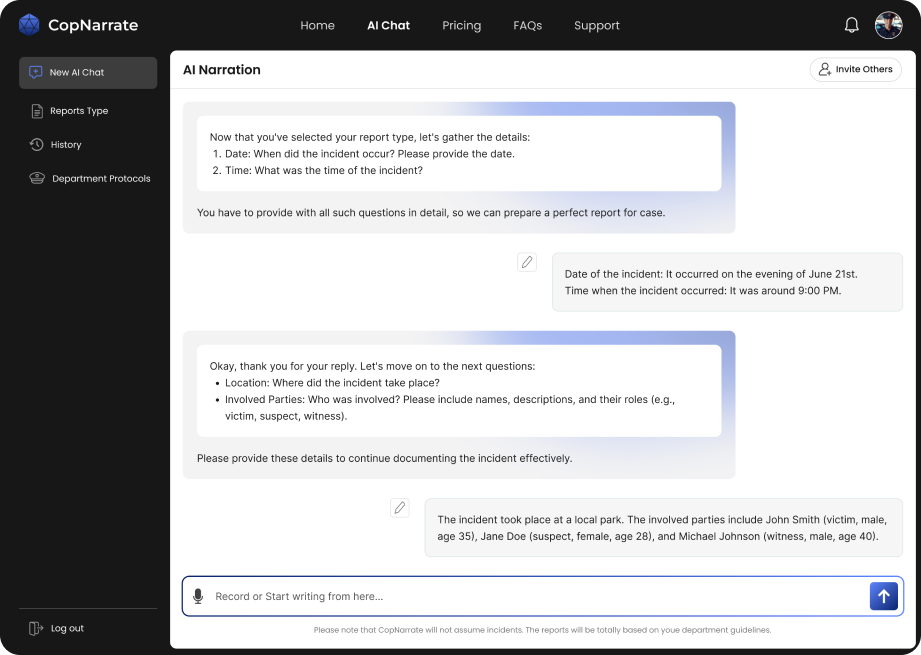
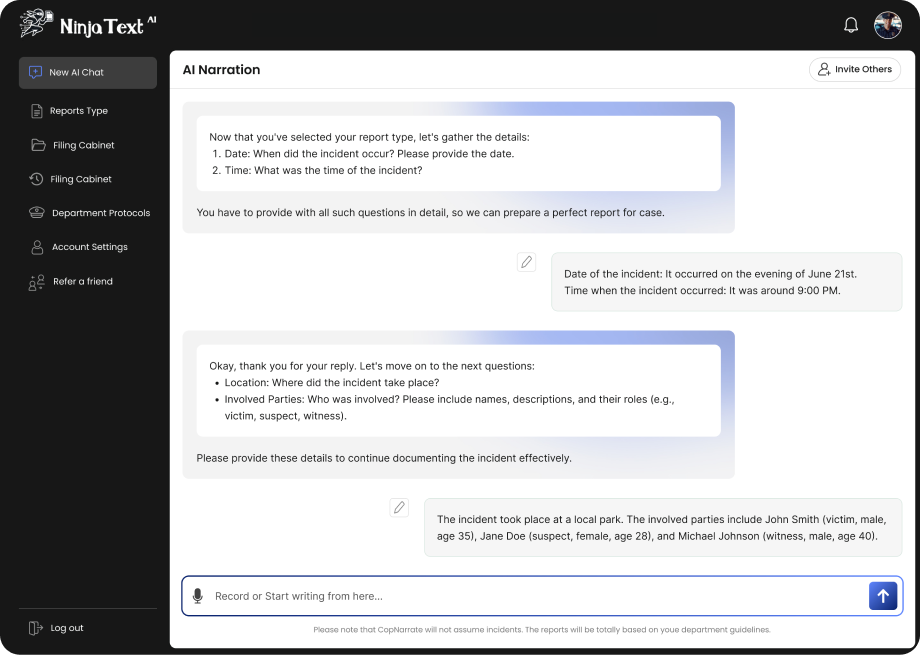
ladnig page is complete

diff --git a/components/landing-features.tsx b/components/landing-features.tsx
@@ -7,32 +7,32 @@ const LandingFeatures = () => {
       id="features"
       className="flex flex-col items-center justify-center px-4 sm:px-8 md:px-16 lg:px-32 text-black -mt-72 z-10 relative bg-white rounded-tl-3xl rounded-tr-3xl min-h-screen"
     >
-      <div className="flex flex-col gap-y-4 text-center mt-12">
-        <h5 className="text-gray-500 font-semibold text-lg md:text-xl">
+      <div className="flex flex-col items-center gap-y-4 text-center mt-12">
+        <h5 className="w-fit px-2 text-black font-normal bg-gray-200 rounded-xl">
           Features
         </h5>
-        <h2 className="text-black text-2xl sm:text-3xl md:text-4xl lg:text-5xl font-bold">
-          Dictate, Document, Deliver! <br />
-          Simplify Police Reporting with AI.
+        <h2 className="flex flex-col gap-y-2 text-black text-2xl sm:text-3xl md:text-4xl lg:text-5xl font-bold">
+          Dictate, Document, Deliver!
+          <span>Simplify Police Reporting with AI.</span>
         </h2>
       </div>
 
       <div className="flex flex-col md:flex-row w-full bg-[#EFF2FB] rounded-3xl p-4 mt-12 drop-shadow-lg">
         <div className="w-full md:w-1/2 p-4">
           <Image
-            src={"/pic1.jpg"}
-            width={230}
-            height={230}
+            src={"/pic1.png"}
+            width={260}
+            height={260}
             alt="pic1"
             className="rounded-tl-3xl rounded-tr-3xl mx-auto md:mx-0"
           />
         </div>
         <div className="w-full md:w-1/2 px-4 md:px-12 flex items-center">
-          <div className="w-full flex flex-col items-center justify-center gap-y-2">
-            <h1 className="text-lg sm:text-xl md:text-2xl font-bold text-center">
-              Accurate reporting as per your department guidelines.
+          <div className="w-full flex flex-col items-start justify-center gap-y-2">
+            <h1 className="text-lg sm:text-xl md:text-2xl font-bold text-left">
+              Accurate Reporting As Per Your Department Guidelines.
             </h1>
-            <p className="text-gray-500 font-light text-center">
+            <p className="text-gray-500 font-light text-left">
               Our platform ensures precise documentation aligned with your
               department's protocols and guidelines.
             </p>
@@ -43,10 +43,10 @@ const LandingFeatures = () => {
       <div className="flex flex-col md:flex-row w-full bg-[#EFF2FB] rounded-3xl p-4 mt-12 drop-shadow-lg">
         <div className="w-full md:w-1/2 px-4 md:px-12 flex items-center">
           <div className="w-full flex flex-col items-center justify-center gap-y-2">
-            <h1 className="text-lg sm:text-xl md:text-2xl font-bold text-center">
-              Voice-Powered Efficiency Streamline Your Narrations
+            <h1 className="text-lg sm:text-xl md:text-2xl font-bold text-left">
+            Efficient Narration at Your Command: Powered by Voice
             </h1>
-            <p className="text-gray-500 font-light text-center">
+            <p className="text-gray-500 font-light text-left">
               Experience the future of documentation with our advanced
               voice-powered platform.
             </p>
@@ -75,13 +75,13 @@ const LandingFeatures = () => {
         </div>
         <div className="w-full md:w-1/2 px-4 md:px-12 flex items-center">
           <div className="w-full flex flex-col justify-center gap-y-2">
-            <h1 className="text-lg sm:text-xl md:text-2xl font-bold text-center">
-              Copy, Regenerate, and Export with Ease
+            <h1 className="text-lg sm:text-xl md:text-2xl font-bold text-left">
+              Copy, Regenerate, And Export <br /> With Ease
             </h1>
-            <p className="text-gray-500 font-light text-center">
+            <p className="text-gray-500 font-light text-left">
               Effortlessly manage reports with our comprehensive tools:
               duplicate for editing or reference, update content with AI
-              precision, and export seamlessly in DOCX and PDF formats for easy
+              precision, and export seamlessly in PDF formats for easy
               sharing and archival.
             </p>
           </div>

diff --git a/components/landing-pricing.tsx b/components/landing-pricing.tsx
@@ -16,13 +16,15 @@ const LandingPricing = () => {
   return (
     <div id="pricing" className="bg-white py-8">
       <div className="px-4 sm:px-8 md:px-16 lg:px-32">
-        <div className="flex flex-col bg-[#EFF2FB] p-6 md:p-8 lg:p-12 rounded-3xl items-center justify-center text-center gap-y-8 drop-shadow-lg">
-          <p className="text-gray-500 font-semibold text-sm md:text-base mt-4">
+        <div className="flex flex-col bg-[#EFF2FB] p-6 md:p-8 lg:p-12 rounded-3xl items-center justify-center text-center gap-y-4 drop-shadow-lg">
+          <h5 className="w-fit px-4 text-black font-normal bg-white rounded-xl shadow-lg">
             Plans and Pricing
-          </p>
-          <h1 className="text-xl sm:text-2xl md:text-3xl lg:text-4xl font-bold text-black px-4 md:px-12 lg:px-48">
-            Choose your plan: flexible upgrades, downgrades, and easy
-            cancellations.
+          </h5>
+          <h1 className="text-xl sm:text- md:text-3xl lg:text-4xl font-bold text-black px-4 md:px-12 lg:px-22">
+            Choose Your Plan
+          </h1>
+          <h1 className="text-xs sm:text-sm md:text-md lg:text-lg font-bold text-black px-4 md:px-12 lg:px-22">
+            Flexible, Upgrades, Downgrades, and Easy Cancellations.
           </h1>
 
           <div className="flex flex-col md:flex-row gap-6 md:gap-8 lg:gap-12 mb-12">
@@ -30,8 +32,10 @@ const LandingPricing = () => {
               <Card
                 key={index}
                 className={cn(
-                  plan.tag === "Free" ? "bg-white text-black" : "bg-black text-white",
-                  "text-left drop-shadow-xl px-4 py-6 md:px-6 md:py-8 lg:px-8 lg:py-10 h-fit rounded-3xl"
+                  plan.tag === "Free"
+                    ? "bg-white text-black"
+                    : "bg-black text-white",
+                  "text-left shadow-black/20 shadow-xl px-4 py-4 md:px-6 md:py-8 lg:px-6 lg:py-6 h-fit rounded-3xl"
                 )}
               >
                 <CardHeader>
@@ -67,15 +71,19 @@ const LandingPricing = () => {
                     </p>
                   ))}
                 </CardContent>
-                <CardFooter>
+                <CardFooter className="flex items-center justify-center">
                   <Link href={"/sign-up"}>
                     <Button
                       className={cn(
-                        plan.tag === "Free" ? "bg-gray-300 text-black" : "bg-sky-600",
+                        plan.tag === "Free"
+                          ? "bg-gray-300 text-black"
+                          : "bg-sky-600",
                         "drop-shadow-md"
                       )}
                     >
-                      {plan.tag === "Organization" ? "Book a Demo" : "Buy Now"}
+                      {plan.tag === "Free" && "Start for Free"}
+                      {plan.tag === "Organization" && "Book a Demo"}
+                      {plan.tag === "Premium" && "Try it now"}
                     </Button>
                   </Link>
                 </CardFooter>

diff --git a/constants/landingpage.ts b/constants/landingpage.ts
@@ -4,30 +4,30 @@ export const plans = [
     price: "0.00 $",
     line: "Per user",
     description: [
-      "AI -Powered Chatbot",
-      "Upto 07 Reports Narration",
-      "No file saving, Copy only",
+      "No Credit Required",
+      "Up to 3 Report Narrations",
+      "Copy Report only",
     ],
   },
   {
     tag: "Premium",
     price: "39.99 $",
-    line: "Per user, one month",
+    line: "Per user, per month",
     description: [
-      "AI -Powered Chatbot",
-      "Unlimited Reports Narration",
-      "File saving and copying",
+      "AI-Powered Chatbot",
+      "Unlimited Report Narrations",
+      "File Saving & Copying",
     ],
   },
   {
-    tag: "Oraginzation",
+    tag: "Organization",
     price: "Contact Us",
-    line: "",
+    line: "For Organization",
     description: [
-      "Department protocol enhanced",
-      "User based pricing",
-      "Unlimited reports",
-      "History access",
+      "Department Protocol Enhanced",
+      // "Unlimited Report Narrations",
+      "History Access",
+      "Priority Support"
     ],
   },
 ];
@@ -69,10 +69,10 @@ export const faqs = [
     question: "Is Ninja Text AI suitable for small departments?",
     answer: "Yes, Ninja Text AI is scalable and can be used effectively by both small and large departments. It is designed to enhance productivity regardless of department size.",
   },
-  {
-    question: "How can we provide feedback or request new features?",
-    answer: "We value your feedback and are committed to continuously improving Ninja Text AI. You can provide feedback directly through the platform or contact our support team with your suggestions or feature requests.",
-  },
+  // {
+  //   question: "How can we provide feedback or request new features?",
+  //   answer: "We value your feedback and are committed to continuously improving Ninja Text AI. You can provide feedback directly through the platform or contact our support team with your suggestions or feature requests.",
+  // },
   {
     question: "What support is available if we encounter issues?",
     answer: "We offer support with a 24-hour turnaround when you email us at ninjatextAI@gmail.com.",

diff --git a/components/landing-narrative.tsx b/components/landing-narrative.tsx
@@ -1,6 +1,7 @@
 import React from "react";
 import { Button } from "./ui/button";
 import Image from "next/image";
+import { ArrowRight } from "lucide-react";
 
 const LandingNarrative = () => {
   return (
@@ -9,19 +10,19 @@ const LandingNarrative = () => {
         <div className="basis-1/2">
           <div className="flex flex-col gap-y-12 px-12">
             <h1 className="text-4xl font-bold">AI-Powered Efficiency in Police Reporting</h1>
-            <p className="text-gray-500 font-light text-sm">
+            <p className="text-gray-500 font-light text-md">
               The main motive of the website is to revolutionize and simplify
               police reporting through advanced AI-powered tools. Our platform
               aims to streamline the documentation process, enhance accuracy,
               and ensure compliance with departmental guidelines.
             </p>
-            <p className="text-gray-500 font-light text-sm">
+            <p className="text-gray-500 font-light text-md">
               By leveraging voice dictation and AI technology, we empower law
               enforcement professionals to efficiently create detailed and
               precise reports, ultimately improving operational efficiency and
               effectiveness in maintaining public safety.
             </p>
-            <Button className="w-fit px-4 bg-gradient-to-r from-sky-600 via-sky-500 to-sky-600 drop-shadow-lg">Get Your Free Account Now</Button>
+            <Button className="flex items-center gap-x-2 w-fit px-4 bg-gradient-to-r text-md font-bold from-sky-600 via-sky-500 to-sky-600 drop-shadow-lg">Start For Free  <ArrowRight /></Button>
           </div>
         </div>
         <div className="flex basis-1/2 items-center justify-center ">
@@ -30,7 +31,7 @@ const LandingNarrative = () => {
         width={450}
         height={450}
         alt="image"
-        className="rounded-xl"
+        className="rounded-xl shadow-black/20 shadow-xl"
         />
         </div>
       </div>

diff --git a/components/landing-faq.tsx b/components/landing-faq.tsx
@@ -11,11 +11,11 @@ const LandingFAQs = () => {
   return (
     <div id="faqs" className="bg-white py-12 sm:py-24">
       <div className="flex flex-col items-center justify-center px-4 sm:px-8 md:px-16 lg:px-32 gap-y-6">
-        <p className="font-semibold text-gray-500 text-sm sm:text-base">
-          FAQ's
-        </p>
-        <h1 className="text-xl sm:text-2xl md:text-3xl lg:text-4xl font-bold text-black text-center px-4 sm:px-8 md:px-16 lg:px-32">
-          Everything you need to know about the product and usage.
+      <h5 className="w-fit px-4 text-black font-normal bg-gray-200 rounded-xl shadow-lg">
+            FAQ's
+          </h5>
+        <h1 className="text-xl sm:text-2xl md:text-3xl lg:text-4xl leading-[10rem] font-bold text-black text-center px-4 sm:px-8 md:px-16 lg:px-32">
+          Everything You Need to Know About <br /> the Product and Usage.
         </h1>
         <Accordion type="single" collapsible className="w-full mt-6 flex  flex-col items-center">
           {faqs.map((faq, index) => (
@@ -23,7 +23,7 @@ const LandingFAQs = () => {
               <AccordionTrigger className="text-lg font-semibold">
                 {faq.question}
               </AccordionTrigger>
-              <AccordionContent>
+              <AccordionContent className="text-lg">
                 {faq.answer ===
                 "We offer support with a 24-hour turnaround when you email us at ninjatextAI@gmail.com." ? (
                   <a

diff --git a/components/landing-hero.tsx b/components/landing-hero.tsx
@@ -10,12 +10,11 @@ const LandingHero = () => {
       id="home"
       className="min-h-screen flex flex-col items-center justify-center gap-y-8 px-4 sm:px-8 md:px-16 lg:px-32 mt-16 sm:mt-24 md:mt-32"
     >
-      <h1 className="text-3xl sm:text-4xl md:text-5xl text-white font-bold text-center">
-        Where Speed Meets Accuracy <br />
-        in Police Reporting
+      <h1 className="flex flex-col text-3xl sm:text-4xl gap-y-2 md:text-5xl px-12 md:px-16 lg:px-24 text-white font-bold text-center">
+        Where Speed Meets Accuracy <span> in Police Reporting</span>
       </h1>
       <p className="mt-4 text-base sm:text-lg md:text-xl lg:text-2xl text-white font-light text-center">
-        Streamline your police reporting with our advanced AI platform. Easily
+        Streamline your police reporting with our advanced AI platform. <br />Easily
         dictate reports and receive accurate, comprehensive narratives
         instantly.
       </p>
@@ -27,8 +26,8 @@ const LandingHero = () => {
       <Image
         className="mt-6 sm:mt-8 md:mt-10 lg:mt-12 w-full max-w-3xl"
         src={"/heroimage.png"}
-        width={950}
-        height={830}
+        width={920}
+        height={654}
         alt="mainImage"
         layout="responsive"
       />

diff --git a/components/landing-footer.tsx b/components/landing-footer.tsx
@@ -16,7 +16,7 @@ const LandingFooter = () => {
             alt="mainlogo"
           />
           <p className="text-xs sm:text-sm font-normal text-gray-700">
-            NinjaText-AI: web-ready incident documentation for seamless,
+            Web-ready documentation for seamless,
             efficient reporting anytime, anywhere.
           </p>
         </div>
@@ -46,7 +46,7 @@ const LandingFooter = () => {
         </div>
       </div>
       <p className="text-center py-4 text-xs sm:text-sm">
-        &copy;2024 CopNarrative. All Rights Reserved
+        &copy;2024 NinjaText AI All Rights Reserved
       </p>
     </div>
   );

diff --git a/app/api/stripe/route.ts b/app/api/stripe/route.ts
@@ -40,7 +40,7 @@ export async function GET() {
           price_data: {
             currency: "USD",
             product_data: {
-              name: "CopNarrative Pro",
+              name: "NinjaText-AI Pro",
               description: "Unlimited NinjaText-AI Report Generations",
             },
             unit_amount: 3999,
